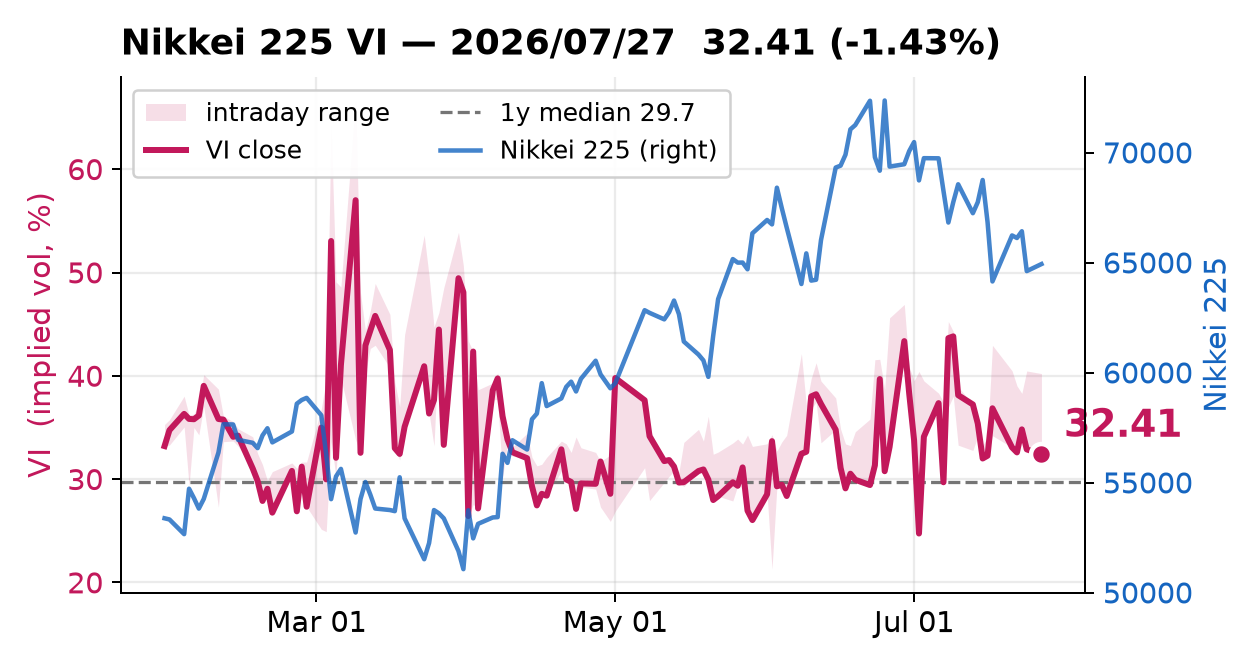
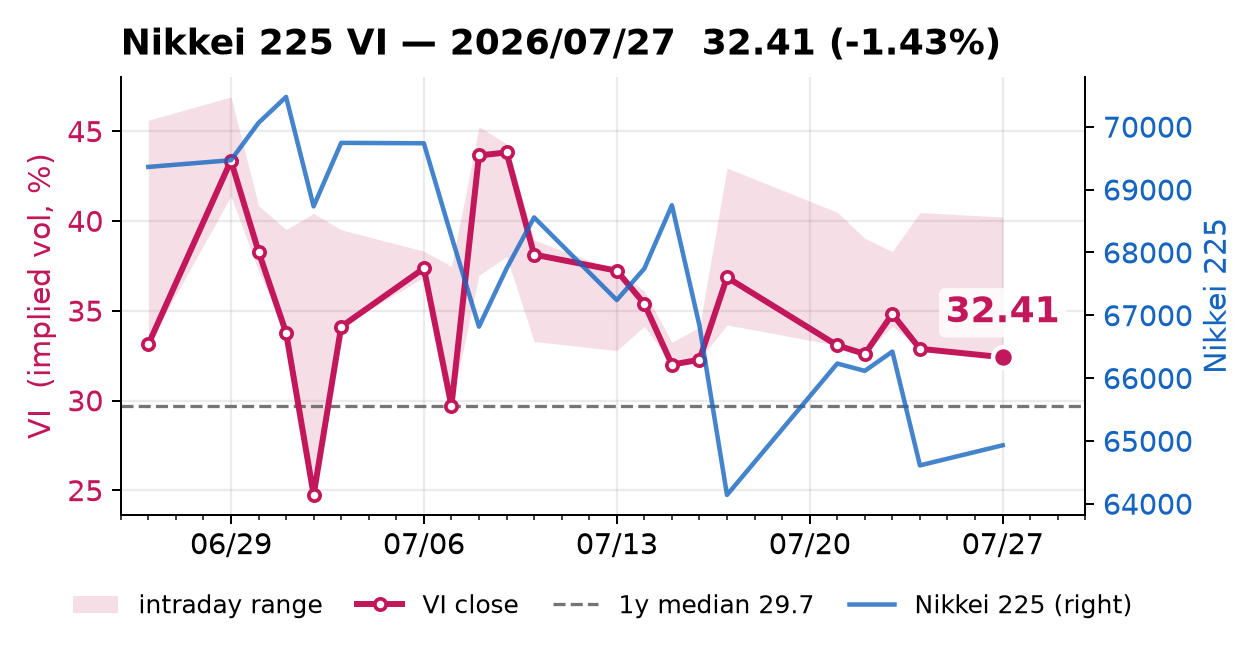
Switch chart to a 1-month window
- Calendar-based window (CHART_DAYS, default 31 days) instead of 120 trading days
- Per-day markers, weekly x-ticks now that the series is short
- Legend moved below the axes and latest-value label centred above the point;
  both collided with the data at 21 points

diff --git a/vi_bot.py b/vi_bot.py
@@ -264,16 +264,24 @@ def analyse():
 
 # ----------------------------------------------------------------------- chart
 
-def make_chart(a, path, days=120):
+def make_chart(a, path, cal_days=None):
     """
     VI line with the Nikkei 225 overlaid; English labels avoid CJK font deps.
+
+    Window is calendar-based (default: the last month) so the x-axis always
+    spans a predictable period regardless of holidays.
 
     Sized for legibility as a Teams *thumbnail*: Teams scales the image down to
     roughly 450px wide, so what matters is text size relative to figure width,
     not absolute pixels. A small figsize with a high dpi gives large relative
     text while still producing a big, crisp image for the click-to-zoom view.
     """
-    vi = a["vi_series"][-days:]
+    if cal_days is None:
+        cal_days = int(os.environ.get("CHART_DAYS", "31"))
+    cutoff = a["date"] - dt.timedelta(days=cal_days)
+    vi = [(d, c) for d, c in a["vi_series"] if d >= cutoff]
+    if len(vi) < 2:                      # pathological (long market closure)
+        vi = a["vi_series"][-10:]
     start = vi[0][0]
     nk = [(d, c) for d, c in a["n225_series"] if d >= start]
     ohlc = {d: (h, l) for d, _c, _o, h, l in a["vi_ohlc"] if d >= start}
@@ -291,7 +299,10 @@ def make_chart(a, path, days=120):
                         color="#c2185b", alpha=0.14, linewidth=0, zorder=1,
                         label="intraday range")
 
-    ax.plot(vd, vc, color="#c2185b", linewidth=2.4, zorder=3, label="VI close")
+    # few enough points now that per-day markers are readable
+    ax.plot(vd, vc, color="#c2185b", linewidth=2.4, zorder=3, label="VI close",
+            marker="o", markersize=4.5, markerfacecolor="white",
+            markeredgewidth=1.5)
 
     med = statistics.median([c for _, c in a["vi_series"][-250:]])
     ax.axhline(med, color="#757575", linestyle="--", linewidth=1.3,
@@ -301,7 +312,10 @@ def make_chart(a, path, days=120):
     ax.scatter([vd[-1]], [vc[-1]], s=70, color="#c2185b", zorder=5,
                edgecolor="white", linewidth=1.8)
     ax.annotate(f"{vc[-1]:.2f}", (vd[-1], vc[-1]), textcoords="offset points",
-                xytext=(9, 7), fontsize=15, fontweight="bold", color="#c2185b")
+                xytext=(0, 14), ha="center", fontsize=14.5, fontweight="bold",
+                color="#c2185b", zorder=6,
+                bbox=dict(boxstyle="round,pad=0.18", facecolor="white",
+                          edgecolor="none", alpha=0.85))
 
     ax.set_ylabel("VI  (implied vol, %)", fontsize=12, color="#c2185b")
     ax.tick_params(axis="y", labelcolor="#c2185b", labelsize=11.5)
@@ -317,17 +331,24 @@ def make_chart(a, path, days=120):
     ax2.tick_params(axis="y", labelcolor="#1565c0", labelsize=11.5)
     ax2.ticklabel_format(axis="y", style="plain")
 
-    ax.xaxis.set_major_formatter(mdates.DateFormatter("%b %d"))
-    ax.xaxis.set_major_locator(mdates.AutoDateLocator(maxticks=6))
+    ax.xaxis.set_major_formatter(mdates.DateFormatter("%m/%d"))
+    ax.xaxis.set_major_locator(mdates.WeekdayLocator(byweekday=mdates.MO))
+    ax.xaxis.set_minor_locator(mdates.DayLocator())
+    # breathing room on the right so the latest-value label doesn't collide
+    # with the Nikkei axis ticks
+    ax.set_xlim(vd[0] - dt.timedelta(days=1), vd[-1] + dt.timedelta(days=3))
 
     ax.set_title(f"Nikkei 225 VI — {a['date']:%Y/%m/%d}  "
                  f"{a['close']:.2f} ({fmt_signed(a['chg_pct'], 2, '%')})",
                  fontsize=14.5, fontweight="bold", loc="left", pad=9)
 
+    # Legend goes *below* the axes: with only ~21 points an in-plot legend box
+    # sits right on top of the data.
     h1, l1 = ax.get_legend_handles_labels()
     h2, l2 = ax2.get_legend_handles_labels()
-    ax.legend(h1 + h2, l1 + l2, loc="upper left", fontsize=10,
-              framealpha=0.92, ncol=2, borderpad=0.5, handlelength=1.6)
+    ax.legend(h1 + h2, l1 + l2, loc="upper center", bbox_to_anchor=(0.5, -0.13),
+              fontsize=10, ncol=4, frameon=False, handlelength=1.8,
+              columnspacing=1.4)
 
     for s in ("top",):
         ax.spines[s].set_visible(False)

diff --git a/README.md b/README.md
@@ -14,7 +14,7 @@
 - **実現ボラとの差**：VI（予想変動率）− 日経225の実現ボラ20日（実際の変動率）
 - **日経225との20日相関**（−1に近いほど逆行）
 - **同時に動いた主要指標**：日経225・ドル円・米VIX・S&P500・米10年金利
-- **チャート**：直近約6ヶ月のVI（終値＋日中レンジ）と日経225の重ね描き。
+- **チャート**：直近1ヶ月のVI（終値＋日中レンジ）と日経225の重ね描き。
   **クリックすると拡大表示**されます（画像の `selectAction` ＋ 予備のボタン。
   一部のTeamsクライアントは画像クリックを無視するため両方用意しています）
 
